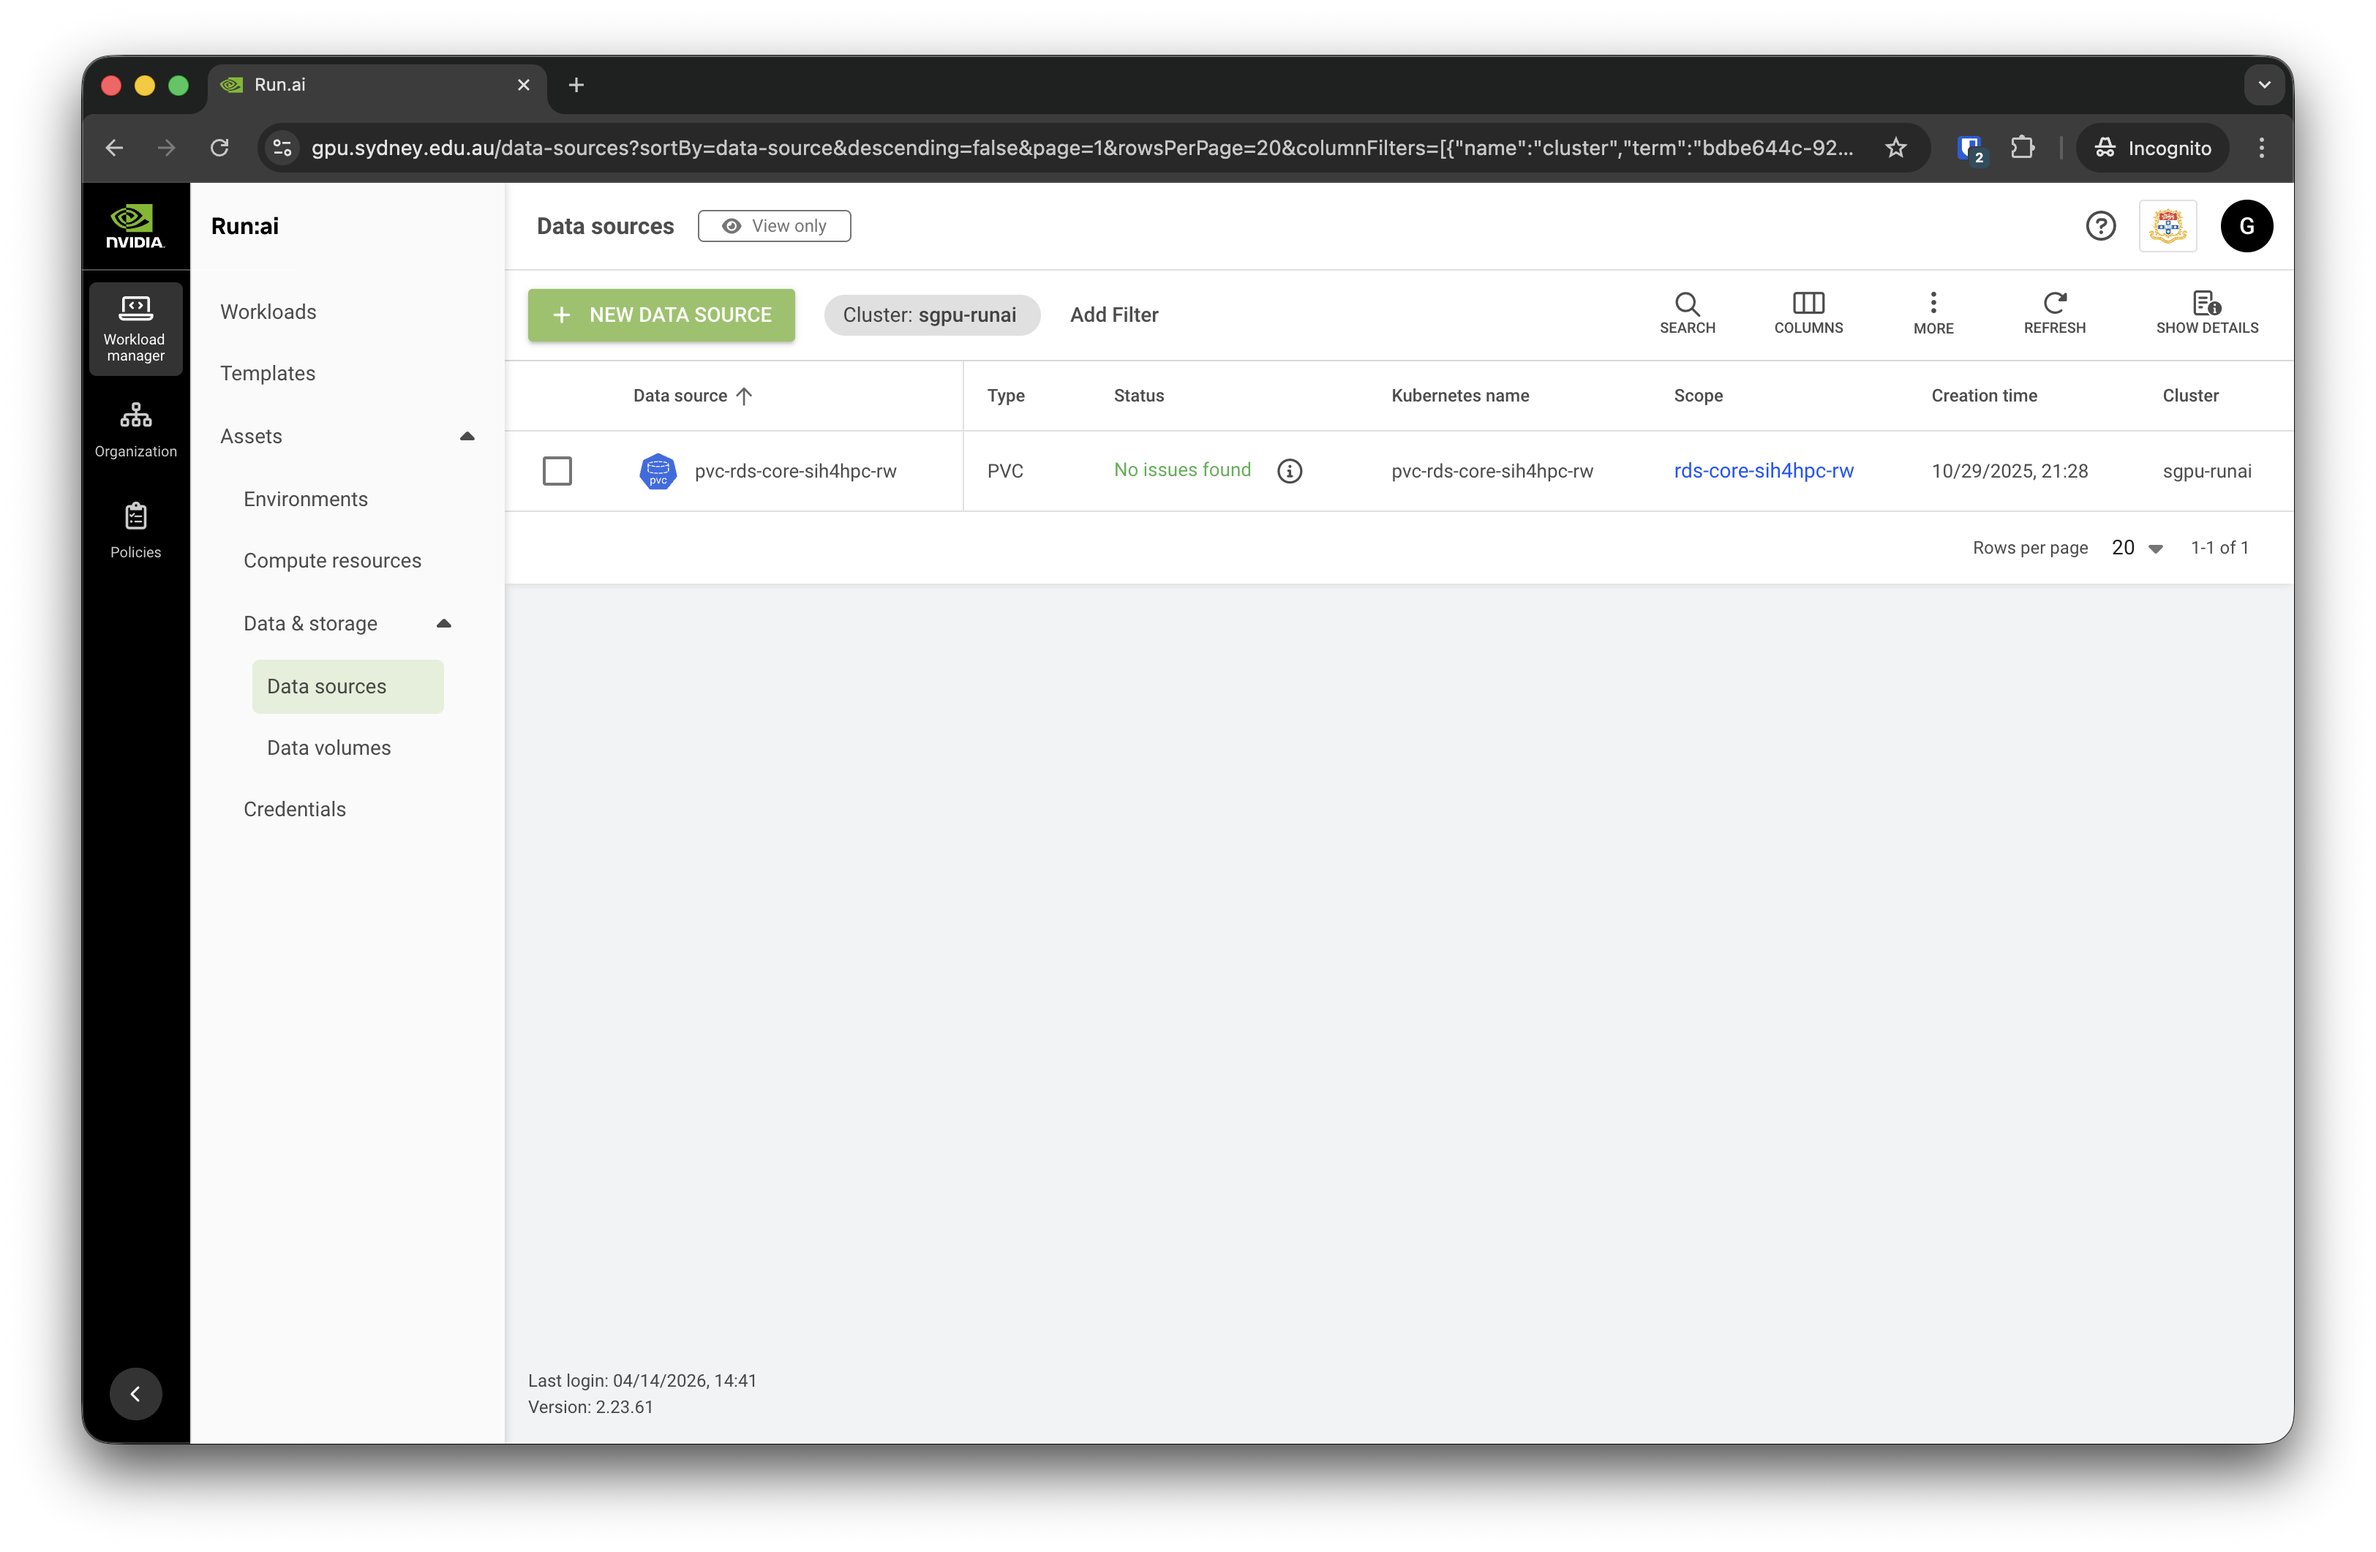
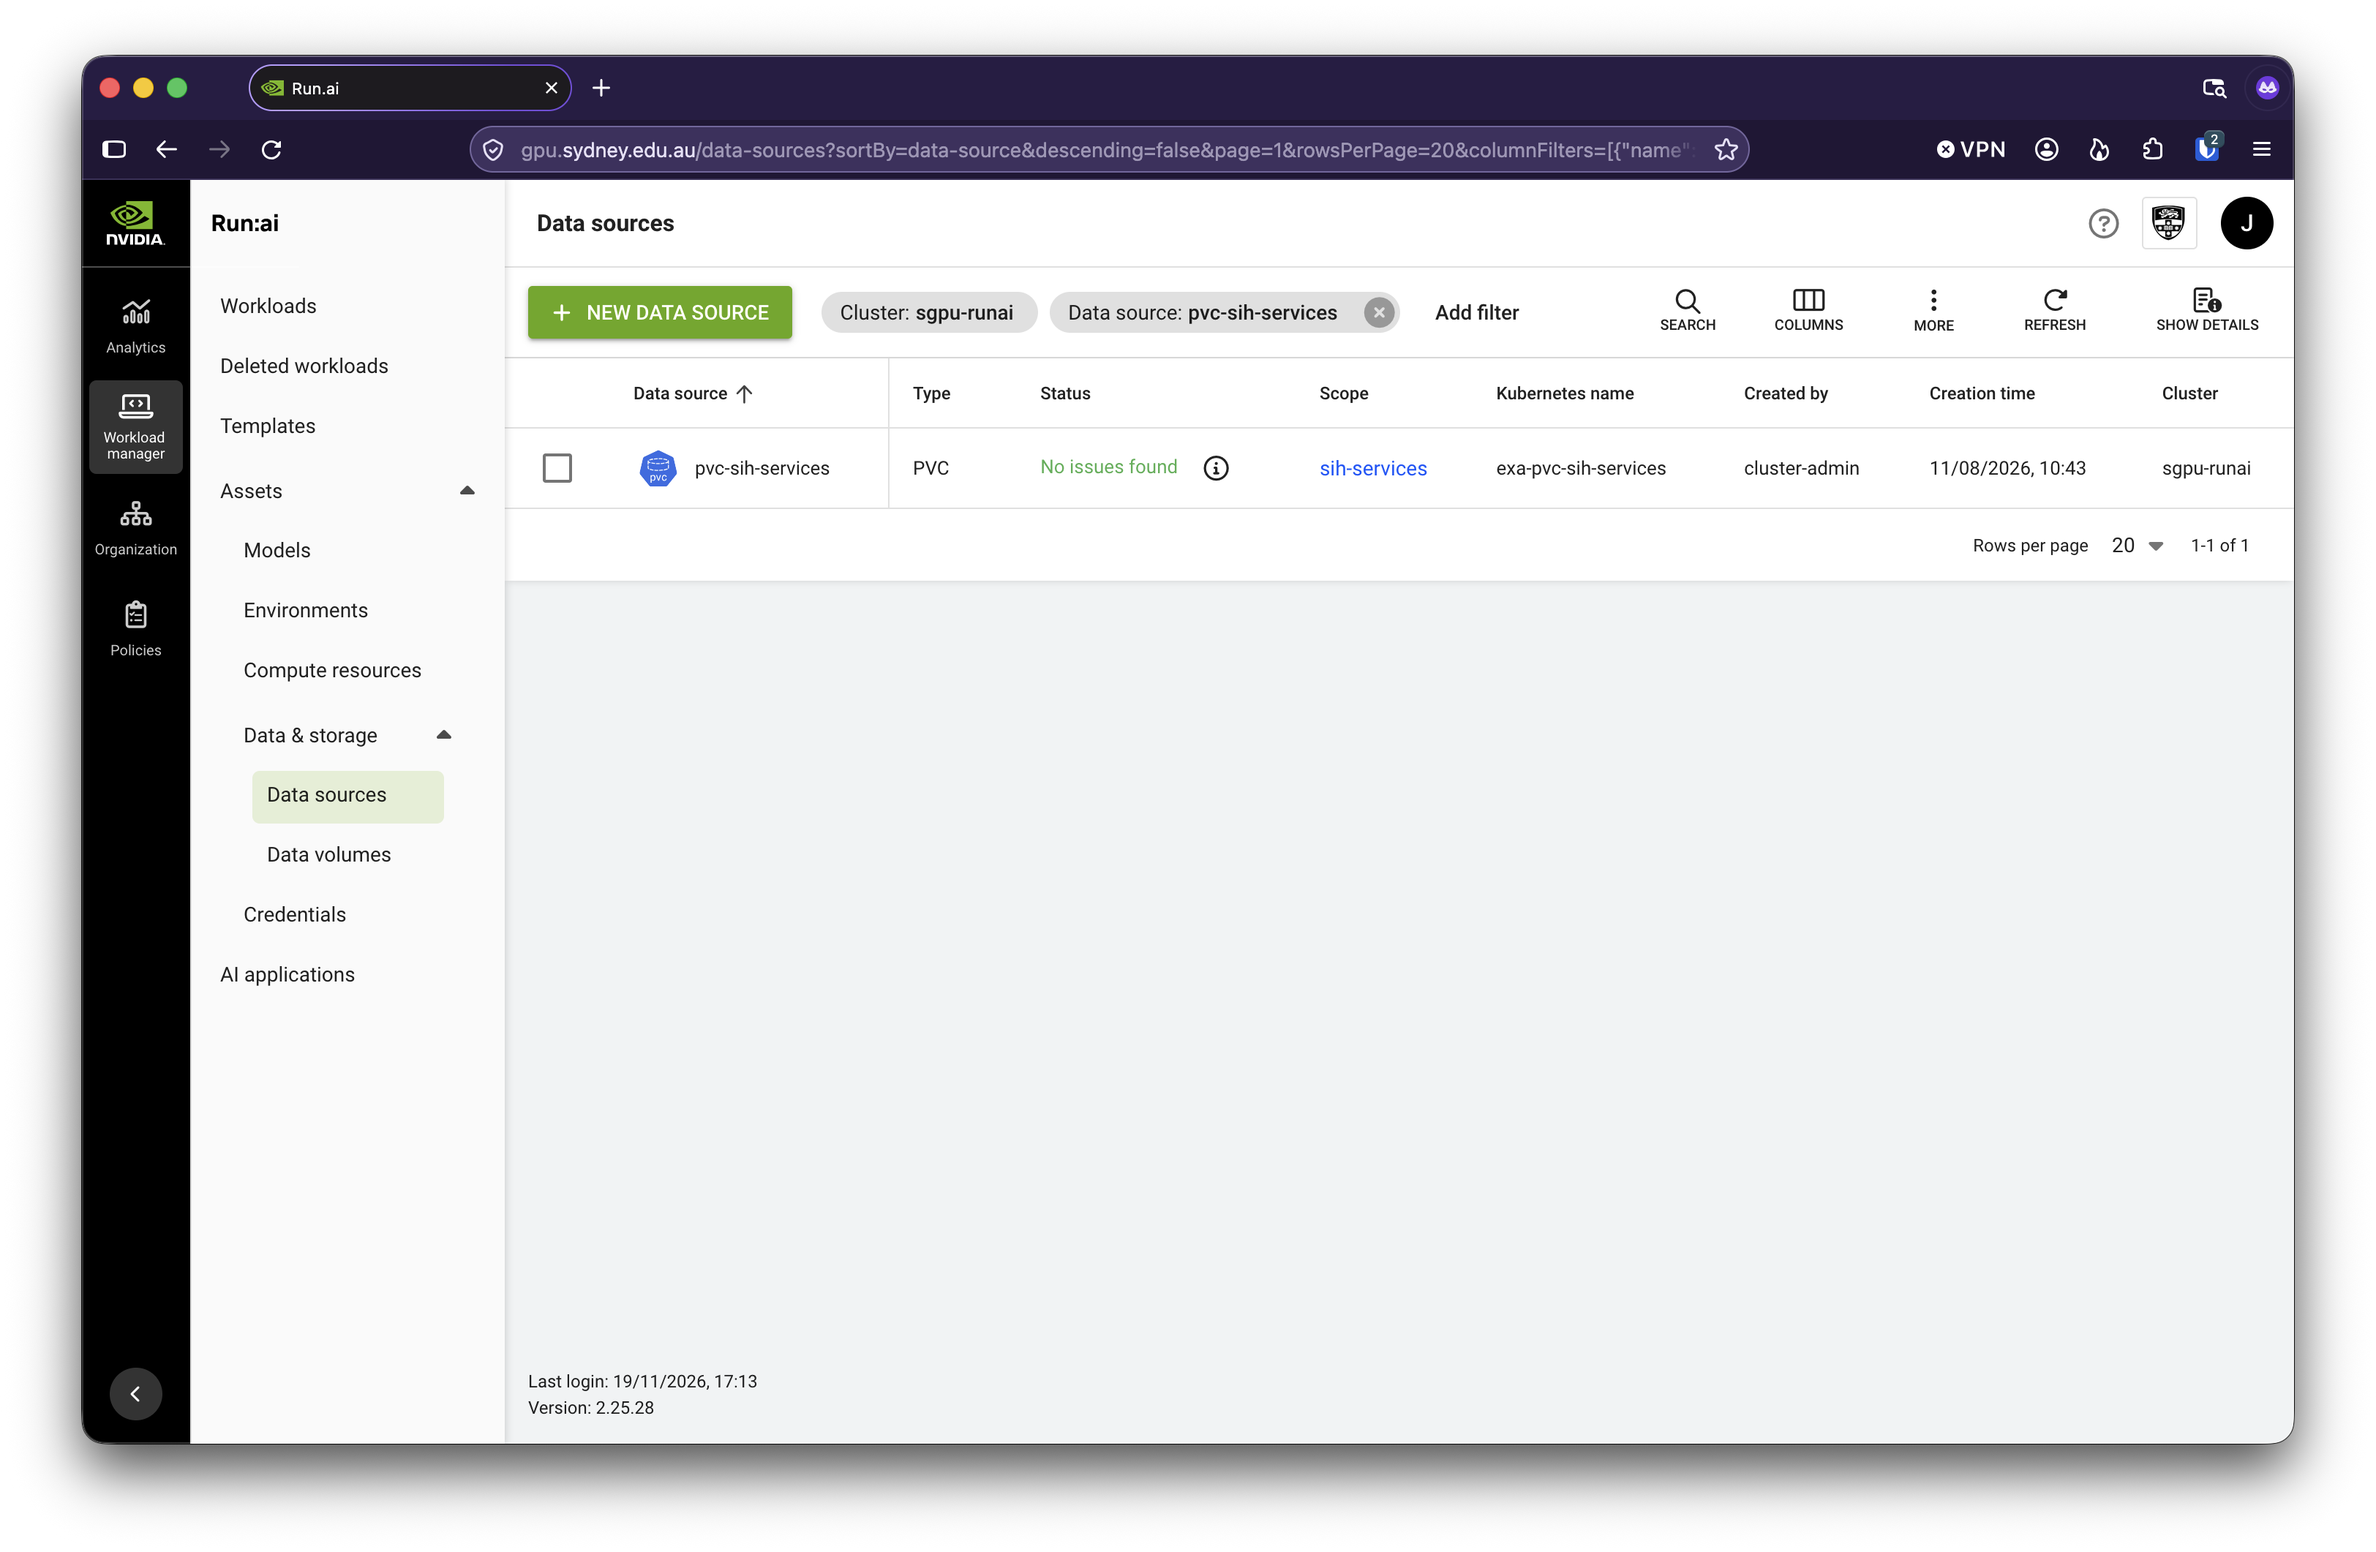
add information to show users where to find the PVC name

diff --git a/notebooks/runai_features.md b/notebooks/runai_features.md
@@ -41,6 +41,9 @@ You may also further adjust the requested resources during workload configuratio
 [**Data sources**](https://run-ai-docs.nvidia.com/self-hosted/2.24/workloads-in-nvidia-run-ai/assets/datasources) in Run:ai provide a way to connect storage to your workloads, making datasets, model weights, and output directories accessible inside the container at runtime.
 
 Persistent Volume Claims (PVCs) are currently the only supported data source type. By default, 1 TB of PVC is provisioned when the Run:ai project is created and can be reused across multiple workloads, avoiding the need to reconfigure storage paths each time. When submitting a workload, users attach the PVC at a specified path within the container.
+
+When [submitting workloads through the CLI](./CLI.md#how-to-run-a-terminal-environment-at-the-command-line), use the PVC's "Kubernetes name" (shown below) in your Run:ai command.
+
 ![Project PVC under "Data sources"](../fig/data_sources.png)
 
 :::{.callout-important}
